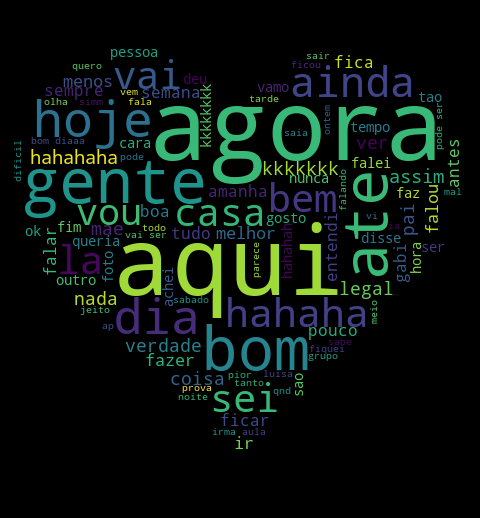
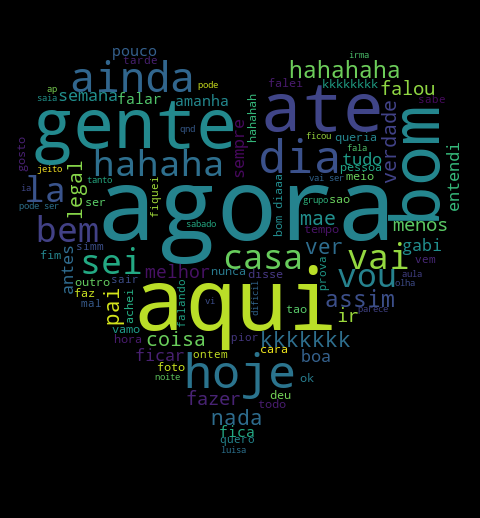
improves stopwords

Changed region(s): [[0.0312, 0.0927, 0.9688, 0.8958]]

diff --git a/analyzers/whatsapp.py b/analyzers/whatsapp.py
@@ -111,11 +111,11 @@ def createWordCloud():
     portugueseStopwords = nltk.corpus.stopwords.words('portuguese')
     stopwords.update(portugueseStopwords)
     stopwords.update([
-        "da", "meu", "em", "você", "de", "ao", "os", "que", "pra", "para", "e", "o", "a", "tb",
-        "tambem", "ou", "um", "mas", "ja", "já", "se", "dp", "ne", "né", "por", "msm", "mesmo",
-        "esse", "essa", "isso", "é", "só", "lá", "uma", "dai", "era", "dps", "porque", "pq",
+        "da", "meu", "em", "de", "ao", "os", "que", "pra", "para", "e", "o", "a", "tb",
+        "tambem", "ou", "um", "mas", "ja", "se", "dp", "ne", "por", "msm", "mesmo"
+        "esse", "essa", "isso", "uma", "dai", "era", "dps", "porque", "pq",
         "mim", "kkk", "kkkkk", "acho", "ele", "ela", "vc", "eu", "na", "tipo", "mt", "sim", "nao",
-        "não", "kkkk", "kkkkkk", "pro", "ah", "ahh", "ahhh", "ta", "entao", "ai", "tava", "pois"
+        "kkkk", "kkkkkk", "pro", "ah", "ahh", "ahhh", "ta", "entao", "ai", "tava", "pois"
     ])
     wordcloud = WordCloud(stopwords=stopwords, background_color="black", width=1000, height=1000, max_words=100,mask=mask, max_font_size=100,min_font_size=1).generate(messageSummary)
 
